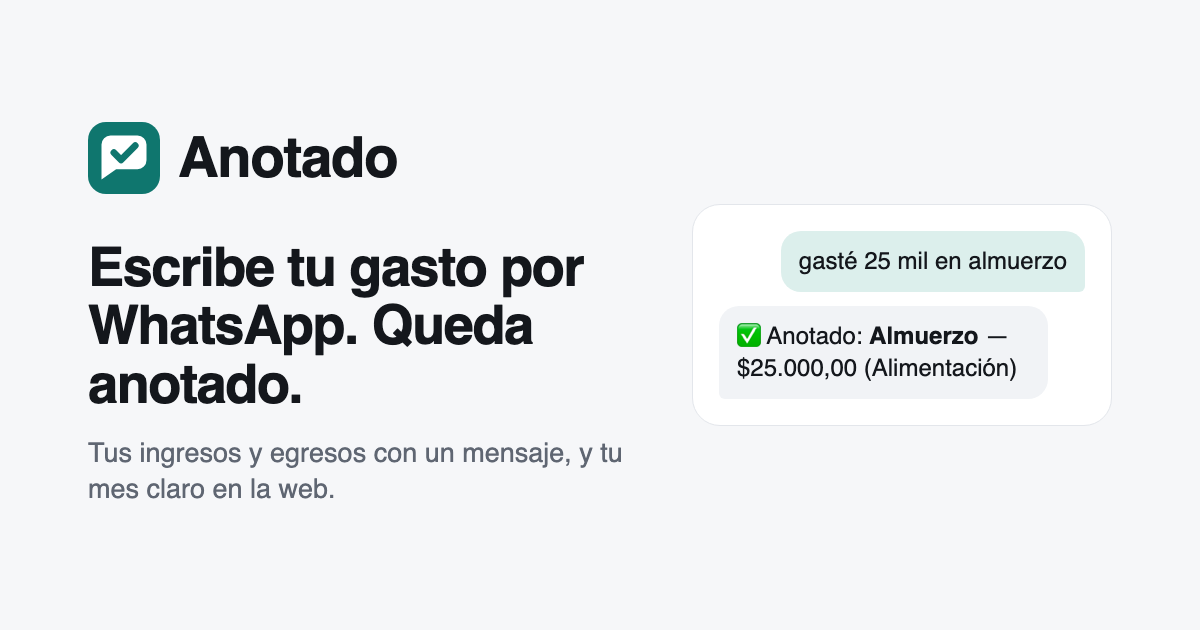
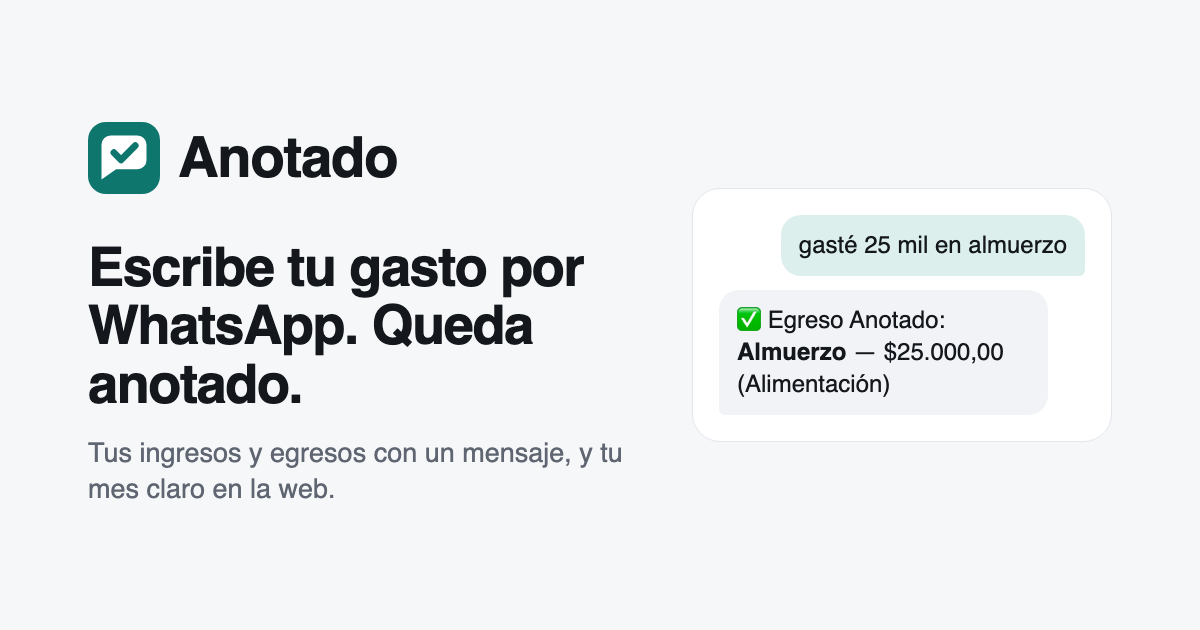
feat(bot): responder "Egreso Anotado" al registrar un movimiento (#160)
Con la marca nueva, el bot confirma cada registro con "✅ Egreso Anotado: …"
o "✅ Ingreso Anotado: …", con la A mayúscula de la marca (decisión del
dueño). Sigue diciendo el tipo, que es como se nota si Claude tomó un
ingreso por un egreso. La portada y la imagen para compartir muestran la
misma respuesta.

Changed region(s): [[0.6167, 0.3317, 0.925, 0.6333]]

diff --git a/e2e/configuracion-bot.spec.ts b/e2e/configuracion-bot.spec.ts
@@ -119,7 +119,7 @@ test("el admin pausa Claude: el bot pide usar la web, los comandos siguen y qued
     await confirmWith(page, codeFor(secret, 1), "Reanudar");
     await expect(toast(page, "Claude volvió a funcionar")).toHaveAttribute("data-tone", "success");
     await expect(settings(page)).toContainText("Activo: entiende los mensajes escritos libremente.");
-    expect(await beto("almuerzo 25.900,50")).toMatch(/✅ Egreso registrado: \*Almuerzo\*/);
+    expect(await beto("almuerzo 25.900,50")).toMatch(/✅ Egreso Anotado: \*Almuerzo\*/);
     expect(await seriousViolations(page)).toEqual([]);
   });
 });
@@ -154,7 +154,7 @@ test("cambiar los topes: fuera de rango avisa en su campo; con 1 por hora, el se
   });
 
   await test.step("el primer mensaje se registra; el segundo, en la misma hora, espera", async () => {
-    expect(await beto("almuerzo 25.900,50")).toMatch(/✅ Egreso registrado/);
+    expect(await beto("almuerzo 25.900,50")).toMatch(/✅ Egreso Anotado/);
     expect(await beto("almuerzo 25.900,50")).toContain("Recibí muchos mensajes en poco tiempo");
     expect(await beto("balance")).toMatch(/Egresos: \$25\.900,50/);
   });
@@ -207,7 +207,7 @@ test("el tope mensual de tokens: al alcanzarlo, el bot deja de usar Claude hasta
     await dialog(page).getByLabel("Tokens al mes").fill("");
     await confirmWith(page, codeFor(secret, 1), "Guardar tope");
     await expect(toast(page, "Se quitó el tope mensual de tokens.")).toBeVisible();
-    expect(await beto("almuerzo 25.900,50")).toMatch(/✅ Egreso registrado/);
+    expect(await beto("almuerzo 25.900,50")).toMatch(/✅ Egreso Anotado/);
     await page.goto("/admin/historial?tipo=admin");
     await expect(visible(page.getByRole("listitem").filter({ hasText: "cambió el tope mensual de tokens" })).first()).toContainText(
       "ahora sin tope (antes 10.000 tokens al mes)",
@@ -236,7 +236,7 @@ test("reenviar una respuesta que no salió: le llega a la persona y no se regist
     await confirmWith(page, codeFor(secret), "Reenviar");
     await expect(toast(page, "Se reenvió 1 respuesta.")).toBeVisible();
     await expect(errors).not.toContainText("no salió en las últimas 24 horas");
-    expect(await beto.resentReply()).toMatch(/✅ Egreso registrado: \*Almuerzo\*/);
+    expect(await beto.resentReply()).toMatch(/✅ Egreso Anotado: \*Almuerzo\*/);
     // El movimiento se registró una sola vez (al llegar el mensaje), no al reenviar.
     expect(await beto("balance")).toMatch(/Egresos: \$25\.900,50/);
   });

diff --git a/e2e/bot-whatsapp.spec.ts b/e2e/bot-whatsapp.spec.ts
@@ -44,7 +44,7 @@ test("vincular el número desde Mi cuenta y llevar las cuentas por WhatsApp", as
   await test.step("un gasto escrito como a una persona queda registrado en la web", async () => {
     await sendWhatsApp(request, phone, "me compré unos zapatos de $500.000");
     const reply = await nthReply(request, phone, 2);
-    expect(reply).toMatch(/✅ Egreso registrado: \*Zapatos\* — \$500\.000,00 \(Ropa\)/);
+    expect(reply).toMatch(/✅ Egreso Anotado: \*Zapatos\* — \$500\.000,00 \(Ropa\)/);
     expect(reply).toMatch(/Balance de [a-z]+: \*−\$500\.000,00\*/);
 
     await openTab(page, "Egresos");
@@ -69,7 +69,7 @@ test("vincular el número desde Mi cuenta y llevar las cuentas por WhatsApp", as
 
   await test.step("un monto con centavos se guarda con sus centavos", async () => {
     await sendWhatsApp(request, phone, "almuerzo 25.900,50");
-    expect(await nthReply(request, phone, 5)).toMatch(/✅ Egreso registrado: \*Almuerzo\* — \$25\.900,50 \(Alimentación\)/);
+    expect(await nthReply(request, phone, 5)).toMatch(/✅ Egreso Anotado: \*Almuerzo\* — \$25\.900,50 \(Alimentación\)/);
     await page.reload();
     await expect(visible(page.getByRole("listitem").filter({ hasText: "Almuerzo" }))).toContainText(/−\$25\.900,50/);
   });
@@ -181,7 +181,7 @@ test("el bot guarda la descripción que ya está en el historial, con su categor
   await nthReply(request, phone, 1);
 
   await sendWhatsApp(request, phone, "pago claro amor 98 mil");
-  expect(await nthReply(request, phone, 2)).toMatch(/✅ Egreso registrado: \*Claro Postpago Cata Amor\* — \$98\.000,00 \(Servicios\)/);
+  expect(await nthReply(request, phone, 2)).toMatch(/✅ Egreso Anotado: \*Claro Postpago Cata Amor\* — \$98\.000,00 \(Servicios\)/);
   await openTab(page, "Egresos");
   const rows = visible(page.getByRole("listitem").filter({ hasText: "Claro Postpago Cata Amor" }));
   await expect(rows).toHaveCount(2);

diff --git a/src/modules/bot/replies.test.ts b/src/modules/bot/replies.test.ts
@@ -49,7 +49,7 @@ describe("registeredReply", () => {
     );
     expect(nbsp(text)).toBe(
       [
-        "✅ Egreso registrado: *Zapatos* — $500.000,00 (Ropa)",
+        "✅ Egreso Anotado: *Zapatos* — $500.000,00 (Ropa)",
         "",
         "Balance de octubre: *$2.700.000,00*",
         "_Escribe *deshacer* si me equivoqué._",
@@ -62,7 +62,7 @@ describe("registeredReply", () => {
       [{ type: "expense", amount: 25900.5, description: "Almuerzo", category: "Alimentación", occurredOn: "2026-10-13" }],
       { today: "2026-10-13", currency: "COP", balance: -25900.5, range },
     );
-    expect(text).toContain("✅ Egreso registrado: *Almuerzo* — $25.900,50 (Alimentación)");
+    expect(text).toContain("✅ Egreso Anotado: *Almuerzo* — $25.900,50 (Alimentación)");
     expect(text).toContain("Balance de octubre: *−$25.900,50*");
   });
 
@@ -88,8 +88,8 @@ describe("registeredReply", () => {
         { today: "2026-10-13", currency: "COP", balance: 70000, range },
       ),
     );
-    expect(text).toContain("Egreso registrado: *Gasolina* — $30.000,00 (Transporte · 12 de oct)");
-    expect(text).toContain("Ingreso registrado: *Venta* — $100.000,00\n");
+    expect(text).toContain("Egreso Anotado: *Gasolina* — $30.000,00 (Transporte · 12 de oct)");
+    expect(text).toContain("Ingreso Anotado: *Venta* — $100.000,00\n");
   });
 });
 

diff --git a/src/modules/bot/replies.ts b/src/modules/bot/replies.ts
@@ -1,6 +1,7 @@
 // Textos que el bot envía por WhatsApp. WhatsApp usa *negrita* y _cursiva_.
 import { CONTACT_EMAIL } from "@/lib/contact";
 import { formatMonthLabel, formatMonthName, formatShortDate, type Month, type MonthRange } from "@/lib/dates";
+import { BRAND_NAME } from "@/lib/brand";
 import { formatMoney, formatShare } from "@/lib/money";
 import type { CategoryReport } from "@/modules/reports/categories";
 import { periodHref, type ReportPeriod } from "@/modules/reports/period";
@@ -20,7 +21,9 @@ export function registeredReply(
     const extras = [t.category, t.occurredOn !== ctx.today ? formatShortDate(t.occurredOn) : null]
       .filter(Boolean)
       .join(" · ");
-    return `✅ ${label} registrado: *${t.description}* — ${money(t.amount)}${extras ? ` (${extras})` : ""}`;
+    // "Egreso Anotado": con la marca (y su mayúscula, por decisión del dueño) y el tipo, que es como se nota si
+    // Claude tomó un ingreso por un egreso.
+    return `✅ ${label} ${BRAND_NAME}: *${t.description}* — ${money(t.amount)}${extras ? ` (${extras})` : ""}`;
   });
   return [
     ...lines,

diff --git a/src/app/[lang]/app-texts.ts b/src/app/[lang]/app-texts.ts
@@ -6,13 +6,13 @@ export const APP_TEXTS = texts(
   {
     name: BRAND_NAME,
     description: "Escribe tu gasto por WhatsApp y queda anotado. Tus ingresos y egresos, claros en la web.",
-    shareImage: "Anotado: escribe tu gasto por WhatsApp y queda anotado. Al mensaje “gasté 25 mil en almuerzo”, el bot responde “Anotado: Almuerzo, $25.000,00”.",
+    shareImage: "Anotado: escribe tu gasto por WhatsApp y queda anotado. Al mensaje “gasté 25 mil en almuerzo”, el bot responde “Egreso Anotado: Almuerzo, $25.000,00”.",
   },
   {
     en: {
       name: BRAND_NAME,
       description: "Text your expense on WhatsApp and it's noted. Your income and expenses, clear on the web.",
-      shareImage: "Anotado: text your expense on WhatsApp and it's noted. To the message “gasté 25 mil en almuerzo”, the bot answers “Anotado: Almuerzo, $25.000,00”.",
+      shareImage: "Anotado: text your expense on WhatsApp and it's noted. To the message “gasté 25 mil en almuerzo”, the bot answers “Egreso Anotado: Almuerzo, $25.000,00”.",
     },
   },
 );

diff --git a/src/modules/bot/handle-message.int.test.ts b/src/modules/bot/handle-message.int.test.ts
@@ -285,7 +285,7 @@ describe("handleIncomingMessage · registro de movimientos", () => {
       externalId: `${msg.id}:0`,
       categoryId: ropa[0].id,
     });
-    expect(sender.sent[0].body).toContain("Egreso registrado: *Zapatos*");
+    expect(sender.sent[0].body).toContain("Egreso Anotado: *Zapatos*");
     expect(sender.sent[0].body.replace(/ /g, " ")).toContain("*$1.500.000,00*");
     expect(await loggedMessage(msg.id)).toMatchObject({ status: "processed", userId: user.id });
   });
@@ -798,7 +798,7 @@ describe("handleIncomingMessage · la descripción del historial", () => {
 
     const saved = (await activeTransactions(user.id)).find((t) => t.source === "whatsapp")!;
     expect(saved).toMatchObject({ description: "Claro Postpago Cata Amor", categoryId: servicios.id, amount: 98000 });
-    expect(sender.sent[0].body).toContain("Egreso registrado: *Claro Postpago Cata Amor*");
+    expect(sender.sent[0].body).toContain("Egreso Anotado: *Claro Postpago Cata Amor*");
     expect(sender.sent[0].body).toContain("(Servicios)");
   });
 

diff --git a/src/app/[lang]/page.tsx b/src/app/[lang]/page.tsx
@@ -128,11 +128,11 @@ function ChatExample({ label, note }: { label: string; note: string | null }) {
       <ol lang="es" className="mt-4 space-y-3 text-sm">
         <li className={sent}>gasté 25 mil en almuerzo</li>
         <li className={received}>
-          ✅ Anotado: <strong>Almuerzo</strong> — $25.000,00 (Alimentación)
+          ✅ Egreso {BRAND_NAME}: <strong>Almuerzo</strong> — $25.000,00 (Alimentación)
         </li>
         <li className={sent}>y 12 mil de taxi</li>
         <li className={received}>
-          ✅ Anotado: <strong>Taxi</strong> — $12.000,00 (Transporte)
+          ✅ Egreso {BRAND_NAME}: <strong>Taxi</strong> — $12.000,00 (Transporte)
           <span className="mt-1 block text-muted">
             Balance del mes: <strong className="text-foreground">$1.284.500,00</strong>
           </span>

diff --git a/e2e/inicio.spec.ts b/e2e/inicio.spec.ts
@@ -13,9 +13,9 @@ test("la portada: qué es Anotado, un ejemplo con el bot y para qué sirve @prin
   const example = visible(page.getByRole("figure", { name: /Una conversación de ejemplo con el bot/ }));
   await expect(example.getByRole("listitem")).toHaveText([
     "gasté 25 mil en almuerzo",
-    /✅ Anotado: Almuerzo — \$25\.000,00 \(Alimentación\)/,
+    /✅ Egreso Anotado: Almuerzo — \$25\.000,00 \(Alimentación\)/,
     "y 12 mil de taxi",
-    /✅ Anotado: Taxi — \$12\.000,00 \(Transporte\)\s*Balance del mes: \$1\.284\.500,00/,
+    /✅ Egreso Anotado: Taxi — \$12\.000,00 \(Transporte\)\s*Balance del mes: \$1\.284\.500,00/,
   ]);
   await expect(page.getByRole("region", { name: "Qué hace Anotado" }).getByRole("heading", { level: 3 })).toHaveText([
     "Por WhatsApp",

diff --git a/.claude/skills/auditoria-textos/glosario.md b/.claude/skills/auditoria-textos/glosario.md
@@ -11,6 +11,8 @@ textos.
   `BRAND_NAME` (`src/lib/brand.ts`).
 - No usar "Finanzas MVP", "Finanzas" ni "Finanzas Bot", los nombres de antes. Hay una excepción: donde
   se explica el cambio, como en Google Authenticator: "Anotado (antes, Finanzas MVP)".
+- **Al registrar, el bot responde "✅ Egreso Anotado: …" o "✅ Ingreso Anotado: …"**, con la A
+  mayúscula de la marca. Es una decisión del dueño: no es un error de mayúsculas.
 - **Eslogan:** "Escribe tu gasto por WhatsApp. Queda anotado." (en inglés, "Text your expense on WhatsApp.
   It's noted.").
 
